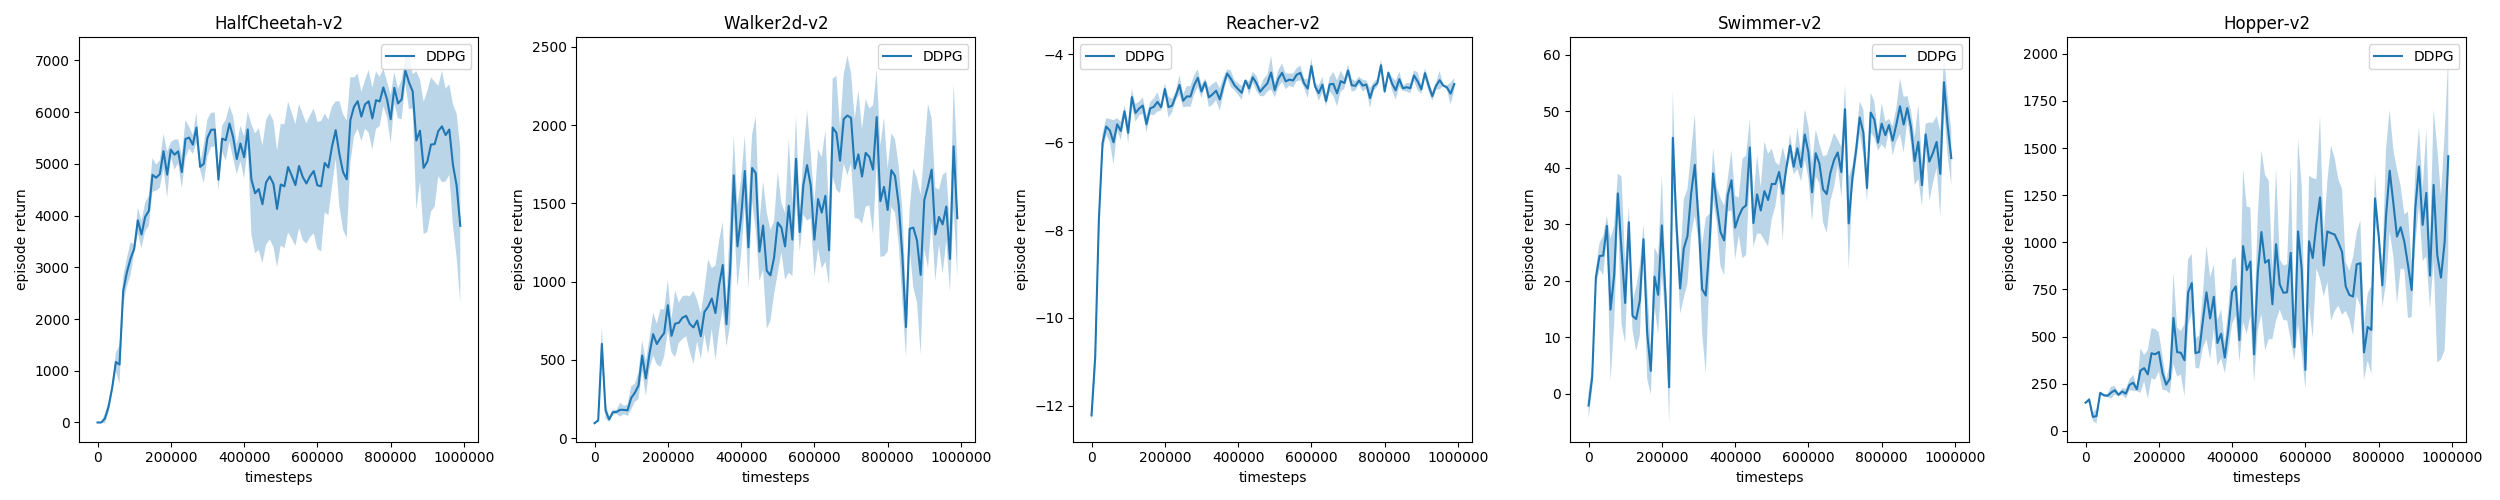
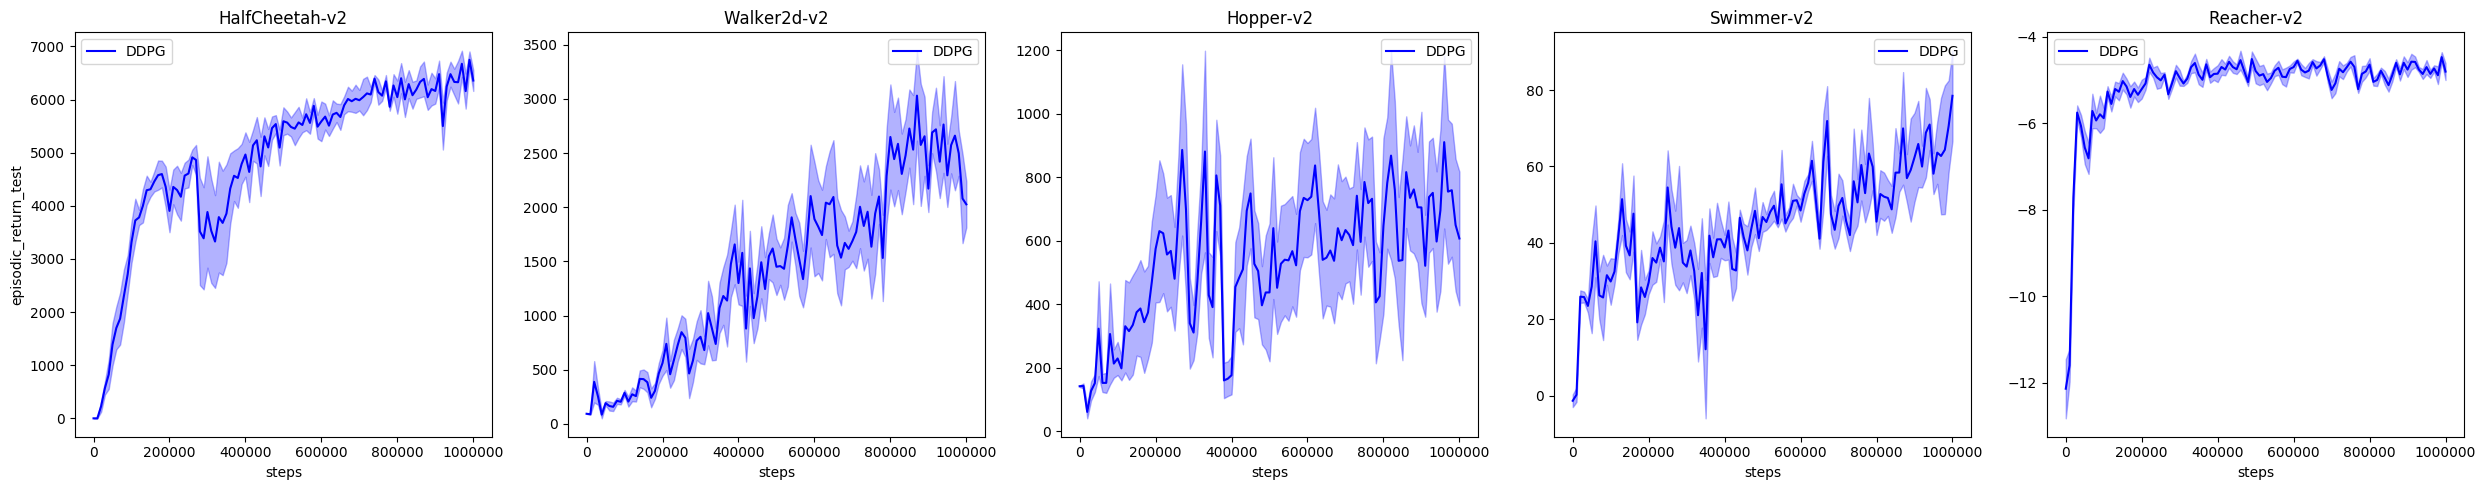
Update plotting scheme

diff --git a/template_plot.py b/template_plot.py
@@ -1,0 +1,125 @@
+import matplotlib
+# matplotlib.use('Agg')
+import matplotlib.pyplot as plt
+# plt.rc('text', usetex=True)
+from deep_rl import *
+
+
+def plot_ppo():
+    plotter = Plotter()
+    games = [
+        'HalfCheetah-v2',
+        'Walker2d-v2',
+        'Hopper-v2',
+        'Swimmer-v2',
+        'Reacher-v2',
+    ]
+
+    patterns = [
+        'remark_ppo',
+    ]
+
+    labels = [
+        'PPO'
+    ]
+
+    plotter.plot_games(games=games,
+                       patterns=patterns,
+                       agg='mean',
+                       downsample=0,
+                       labels=labels,
+                       right_align=False,
+                       tag=plotter.RETURN_TRAIN,
+                       root='./data/benchmark/ppo',
+                       interpolation=100,
+                       window=0,
+                       )
+
+    # plt.show()
+    plt.tight_layout()
+    plt.savefig('images/PPO.png', bbox_inches='tight')
+
+
+def plot_ddpg():
+    plotter = Plotter()
+    games = [
+        'HalfCheetah-v2',
+        'Walker2d-v2',
+        'Hopper-v2',
+        'Swimmer-v2',
+        'Reacher-v2',
+    ]
+
+    patterns = [
+        'remark_ddpg',
+    ]
+
+    labels = [
+        'DDPG'
+    ]
+
+    plotter.plot_games(games=games,
+                       patterns=patterns,
+                       agg='mean',
+                       downsample=0,
+                       labels=labels,
+                       right_align=False,
+                       tag=plotter.RETURN_TEST,
+                       root='./data/benchmark/ddpg',
+                       interpolation=0,
+                       window=0,
+                       )
+
+    # plt.show()
+    plt.tight_layout()
+    plt.savefig('images/DDPG.png', bbox_inches='tight')
+
+
+def plot_atari():
+    plotter = Plotter()
+    games = [
+        'BreakoutNoFrameskip-v4',
+    ]
+
+    patterns = [
+        'remark_a2c',
+        'remark_categorical',
+        'remark_dqn',
+        'remark_n_step_dqn',
+        'remark_option_critic',
+        'remark_ppo',
+        'remark_quantile',
+    ]
+
+    labels = [
+        'A2C',
+        'C51',
+        'DQN',
+        'N-Step DQN',
+        'OC',
+        'PPO',
+        'QR-DQN',
+    ]
+
+    plotter.plot_games(games=games,
+                       patterns=patterns,
+                       agg='mean',
+                       downsample=100,
+                       labels=labels,
+                       right_align=False,
+                       tag=plotter.RETURN_TRAIN,
+                       root='./data/benchmark/atari',
+                       interpolation=0,
+                       window=100,
+                       )
+
+    # plt.show()
+    plt.tight_layout()
+    plt.savefig('images/Breakout.png', bbox_inches='tight')
+
+
+if __name__ == '__main__':
+    mkdir('images')
+    plot_ppo()
+    plot_ddpg()
+    plot_atari()

diff --git a/deep_rl/utils/plot.py b/deep_rl/utils/plot.py
@@ -1,9 +1,7 @@
-# Adapted from  https://github.com/openai/baselines/blob/master/baselines/results_plotter.py
-
-from baselines.bench.monitor import load_results
 import numpy as np
 import os
 import re
+
 
 class Plotter:
     COLORS = ['blue', 'green', 'red', 'cyan', 'magenta', 'yellow', 'black', 'purple', 'pink',
@@ -60,21 +58,6 @@ class Plotter:
             y = np.asarray(y)
 
         return x, y
-
-    # def average(self, xy_list, bin, max_timesteps, top_k=0):
-    #     if top_k:
-    #         perf = [np.max(y) for _, y in xy_list]
-    #         top_k_runs = np.argsort(perf)[-top_k:]
-    #         new_xy_list = []
-    #         for r, (x, y) in enumerate(xy_list):
-    #             if r in top_k_runs:
-    #                 new_xy_list.append((x, y))
-    #         xy_list = new_xy_list
-    #     new_x = np.arange(0, max_timesteps, bin)
-    #     new_y = []
-    #     for x, y in xy_list:
-    #         new_y.append(np.interp(new_x, x, y))
-    #     return new_x, np.asarray(new_y)
 
     def filter_log_dirs(self, pattern, negative_pattern=' ', root='./log', **kwargs):
         dirs = [item[0] for item in os.walk(root)]
@@ -134,7 +117,7 @@ class Plotter:
         kwargs.setdefault('agg', 'mean')
         import matplotlib.pyplot as plt
         l = len(games)
-        plt.figure(figsize=(l * 10, 10))
+        plt.figure(figsize=(l * 5, 5))
         for i, game in enumerate(games):
             plt.subplot(1, l, i + 1)
             for j, p in enumerate(kwargs['patterns']):
@@ -158,3 +141,4 @@ class Plotter:
             if not i:
                 plt.ylabel(kwargs['tag'])
             plt.title(game)
+            plt.legend()

diff --git a/examples.py b/examples.py
@@ -316,7 +316,7 @@ def option_critic_feature(**kwargs):
     run_steps(OptionCriticAgent(config))
 
 
-def option_ciritc_pixel(**kwargs):
+def option_critic_pixel(**kwargs):
     generate_tag(kwargs)
     kwargs.setdefault('skip', False)
     config = Config()
@@ -510,5 +510,5 @@ if __name__ == '__main__':
     # categorical_dqn_pixel(game=game)
     # a2c_pixel(game=game)
     # n_step_dqn_pixel(game=game)
-    # option_ciritc_pixel(game=game)
+    # option_critic_pixel(game=game)
     # ppo_pixel(game=game)

diff --git a/README.md b/README.md
@@ -28,6 +28,7 @@ Action Conditional Video Prediction can be found in [v0.4](https://github.com/Sh
 * There is a super fast DQN implementation with an async actor for data generation and an async replay buffer to transfer data to GPU. Enable this implementation by setting `config.async_actor = True` and using `AsyncReplay`. However, with atari games this fast implementation may not work in macOS. Use Ubuntu or Docker instead.
 * Although there is a `setup.py`, which means you can install the repo as a library, this repo is **never** designed to be a high-level library like Keras. Use it as your codebase instead.
 * **Code for my papers** can be found in corresponding branches, which may be good examples for extending this codebase.
+* TensorFlow is used only for logging. Open AI baselines is only used very slightly. If you carefully read the code, you should be able to remove/replace them.
 
 # Usage
 
@@ -51,7 +52,7 @@ Please use this bibtex if you want to cite this repo
 
 ## BreakoutNoFrameskip-v4
 
-![Loading...](https://raw.githubusercontent.com/ShangtongZhang/DeepRL/master/images/breakout.png)
+![Loading...](https://raw.githubusercontent.com/ShangtongZhang/DeepRL/master/images/Breakout.png)
 
 * This is my synchronous option-critic implementation, not the original one.
 * The curves are not directly comparable, as many hyper-parameters are different.
